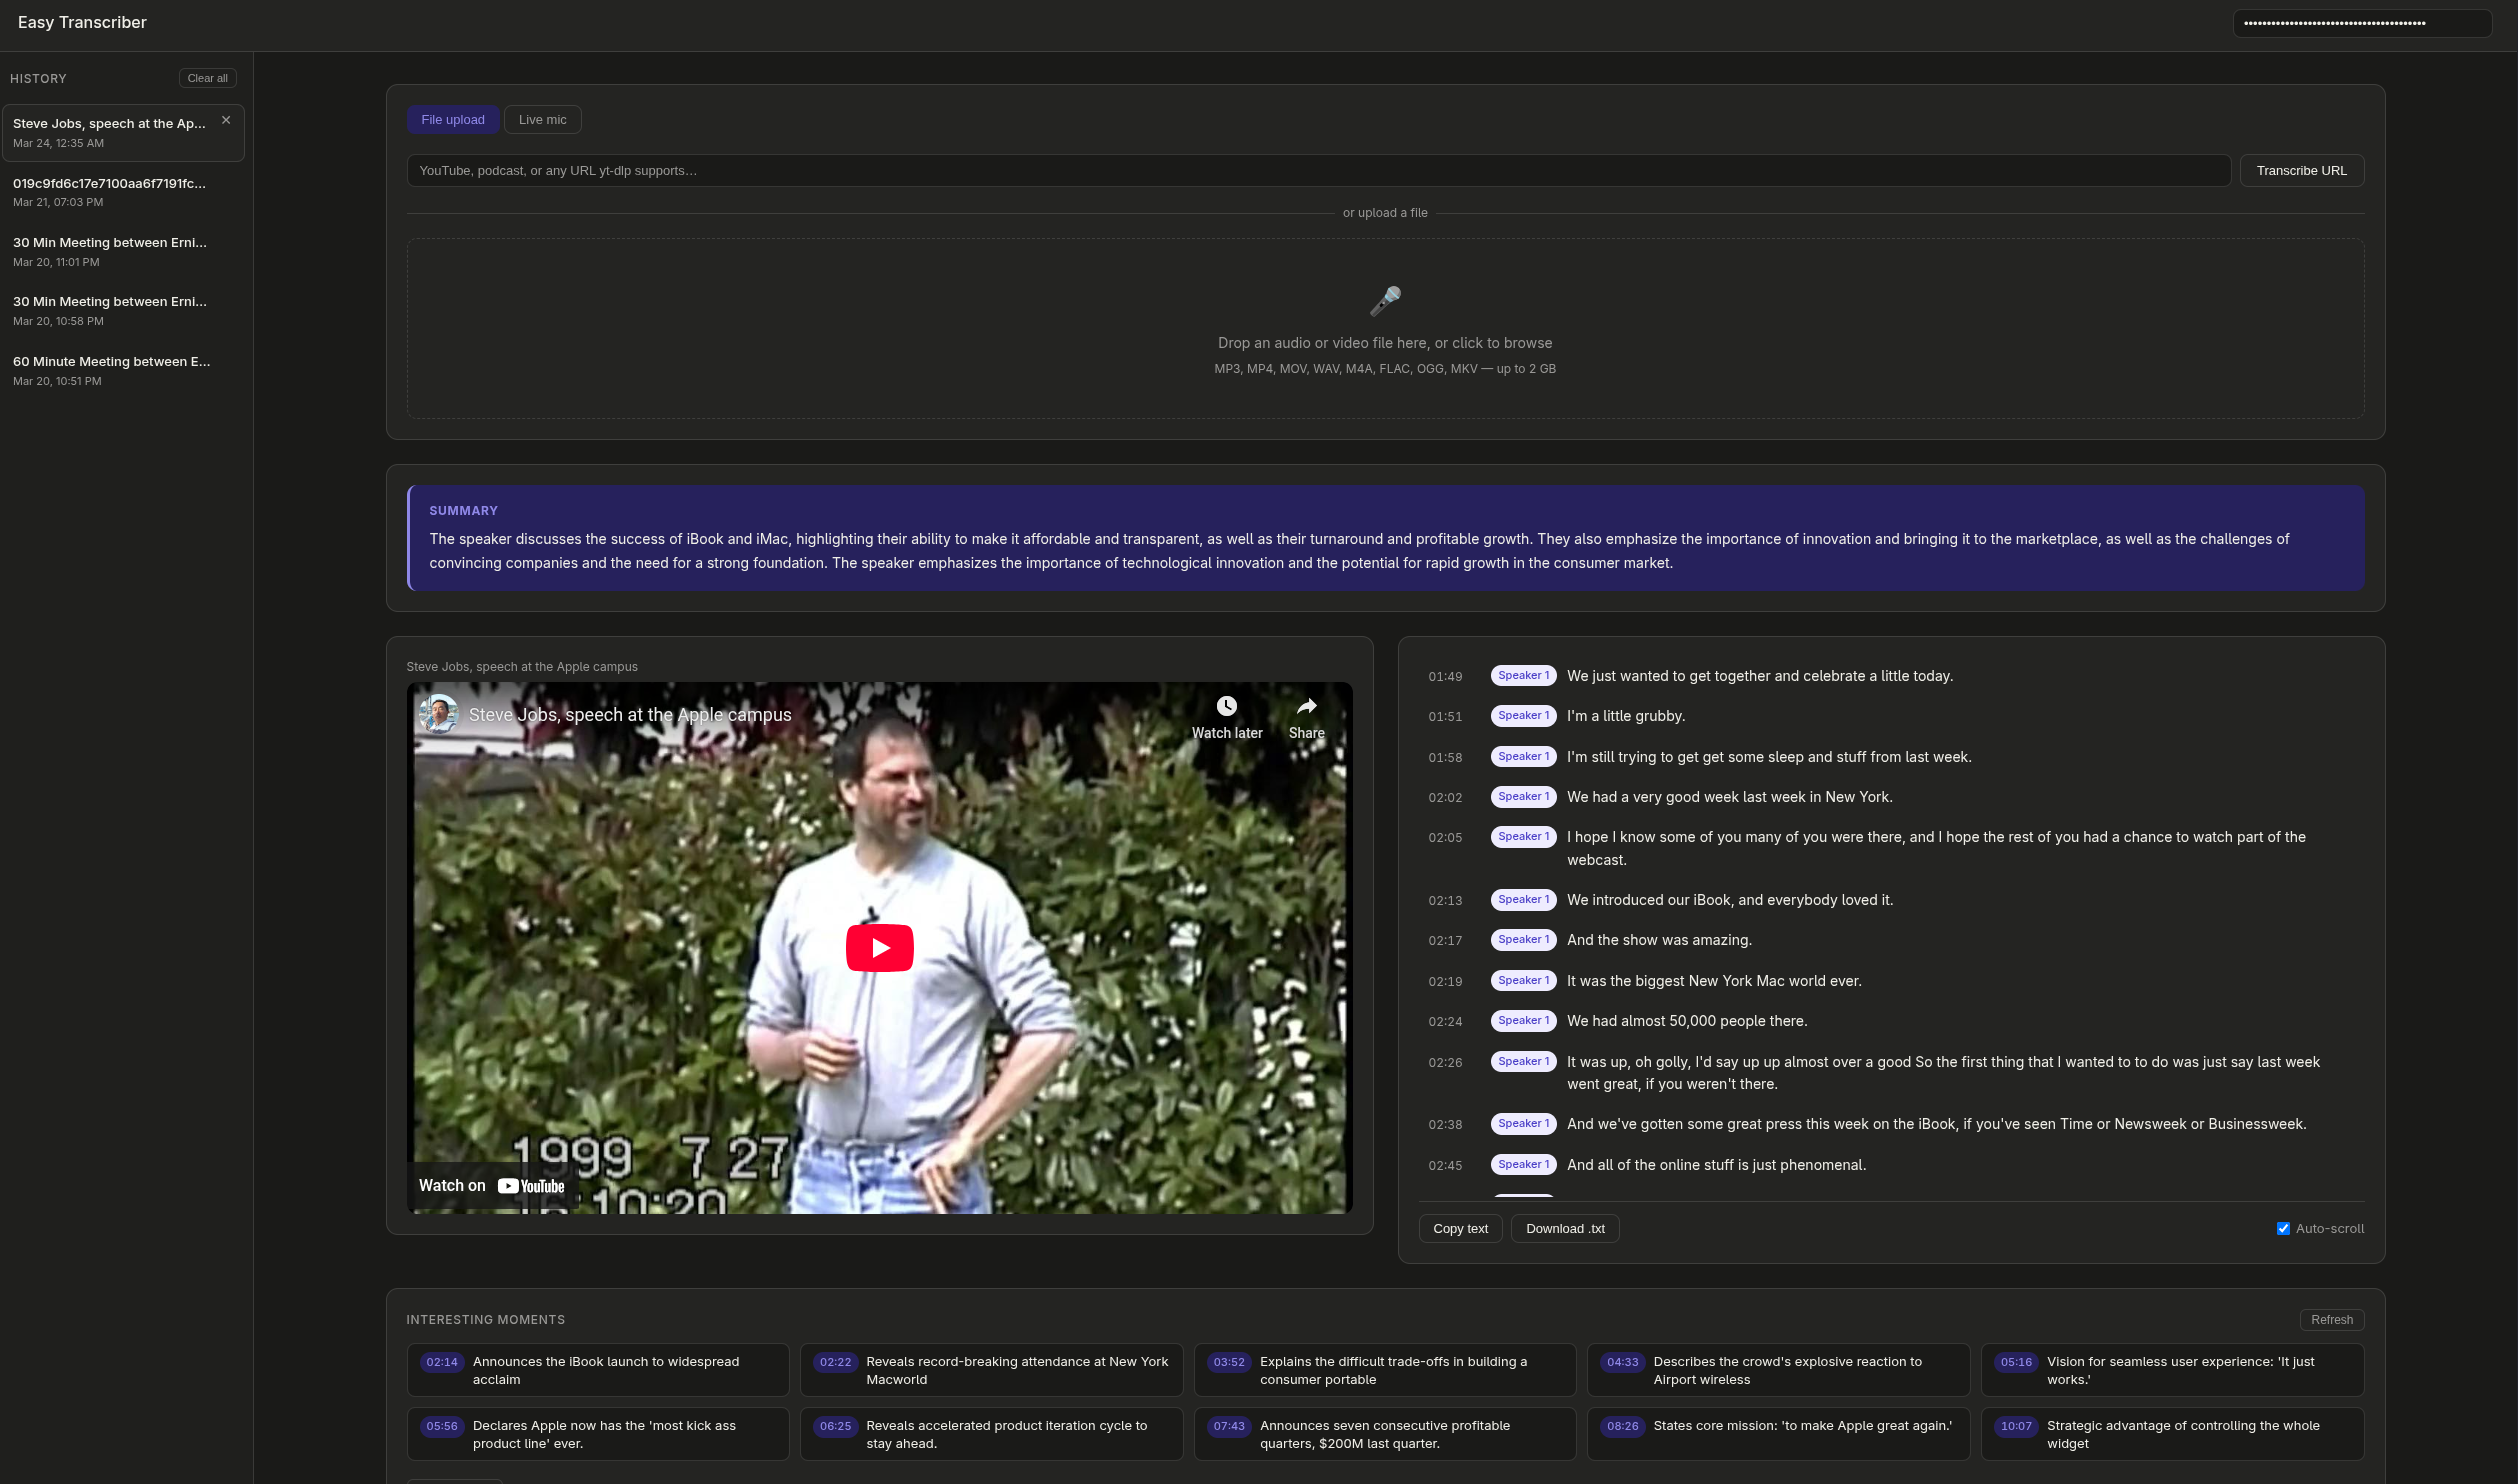
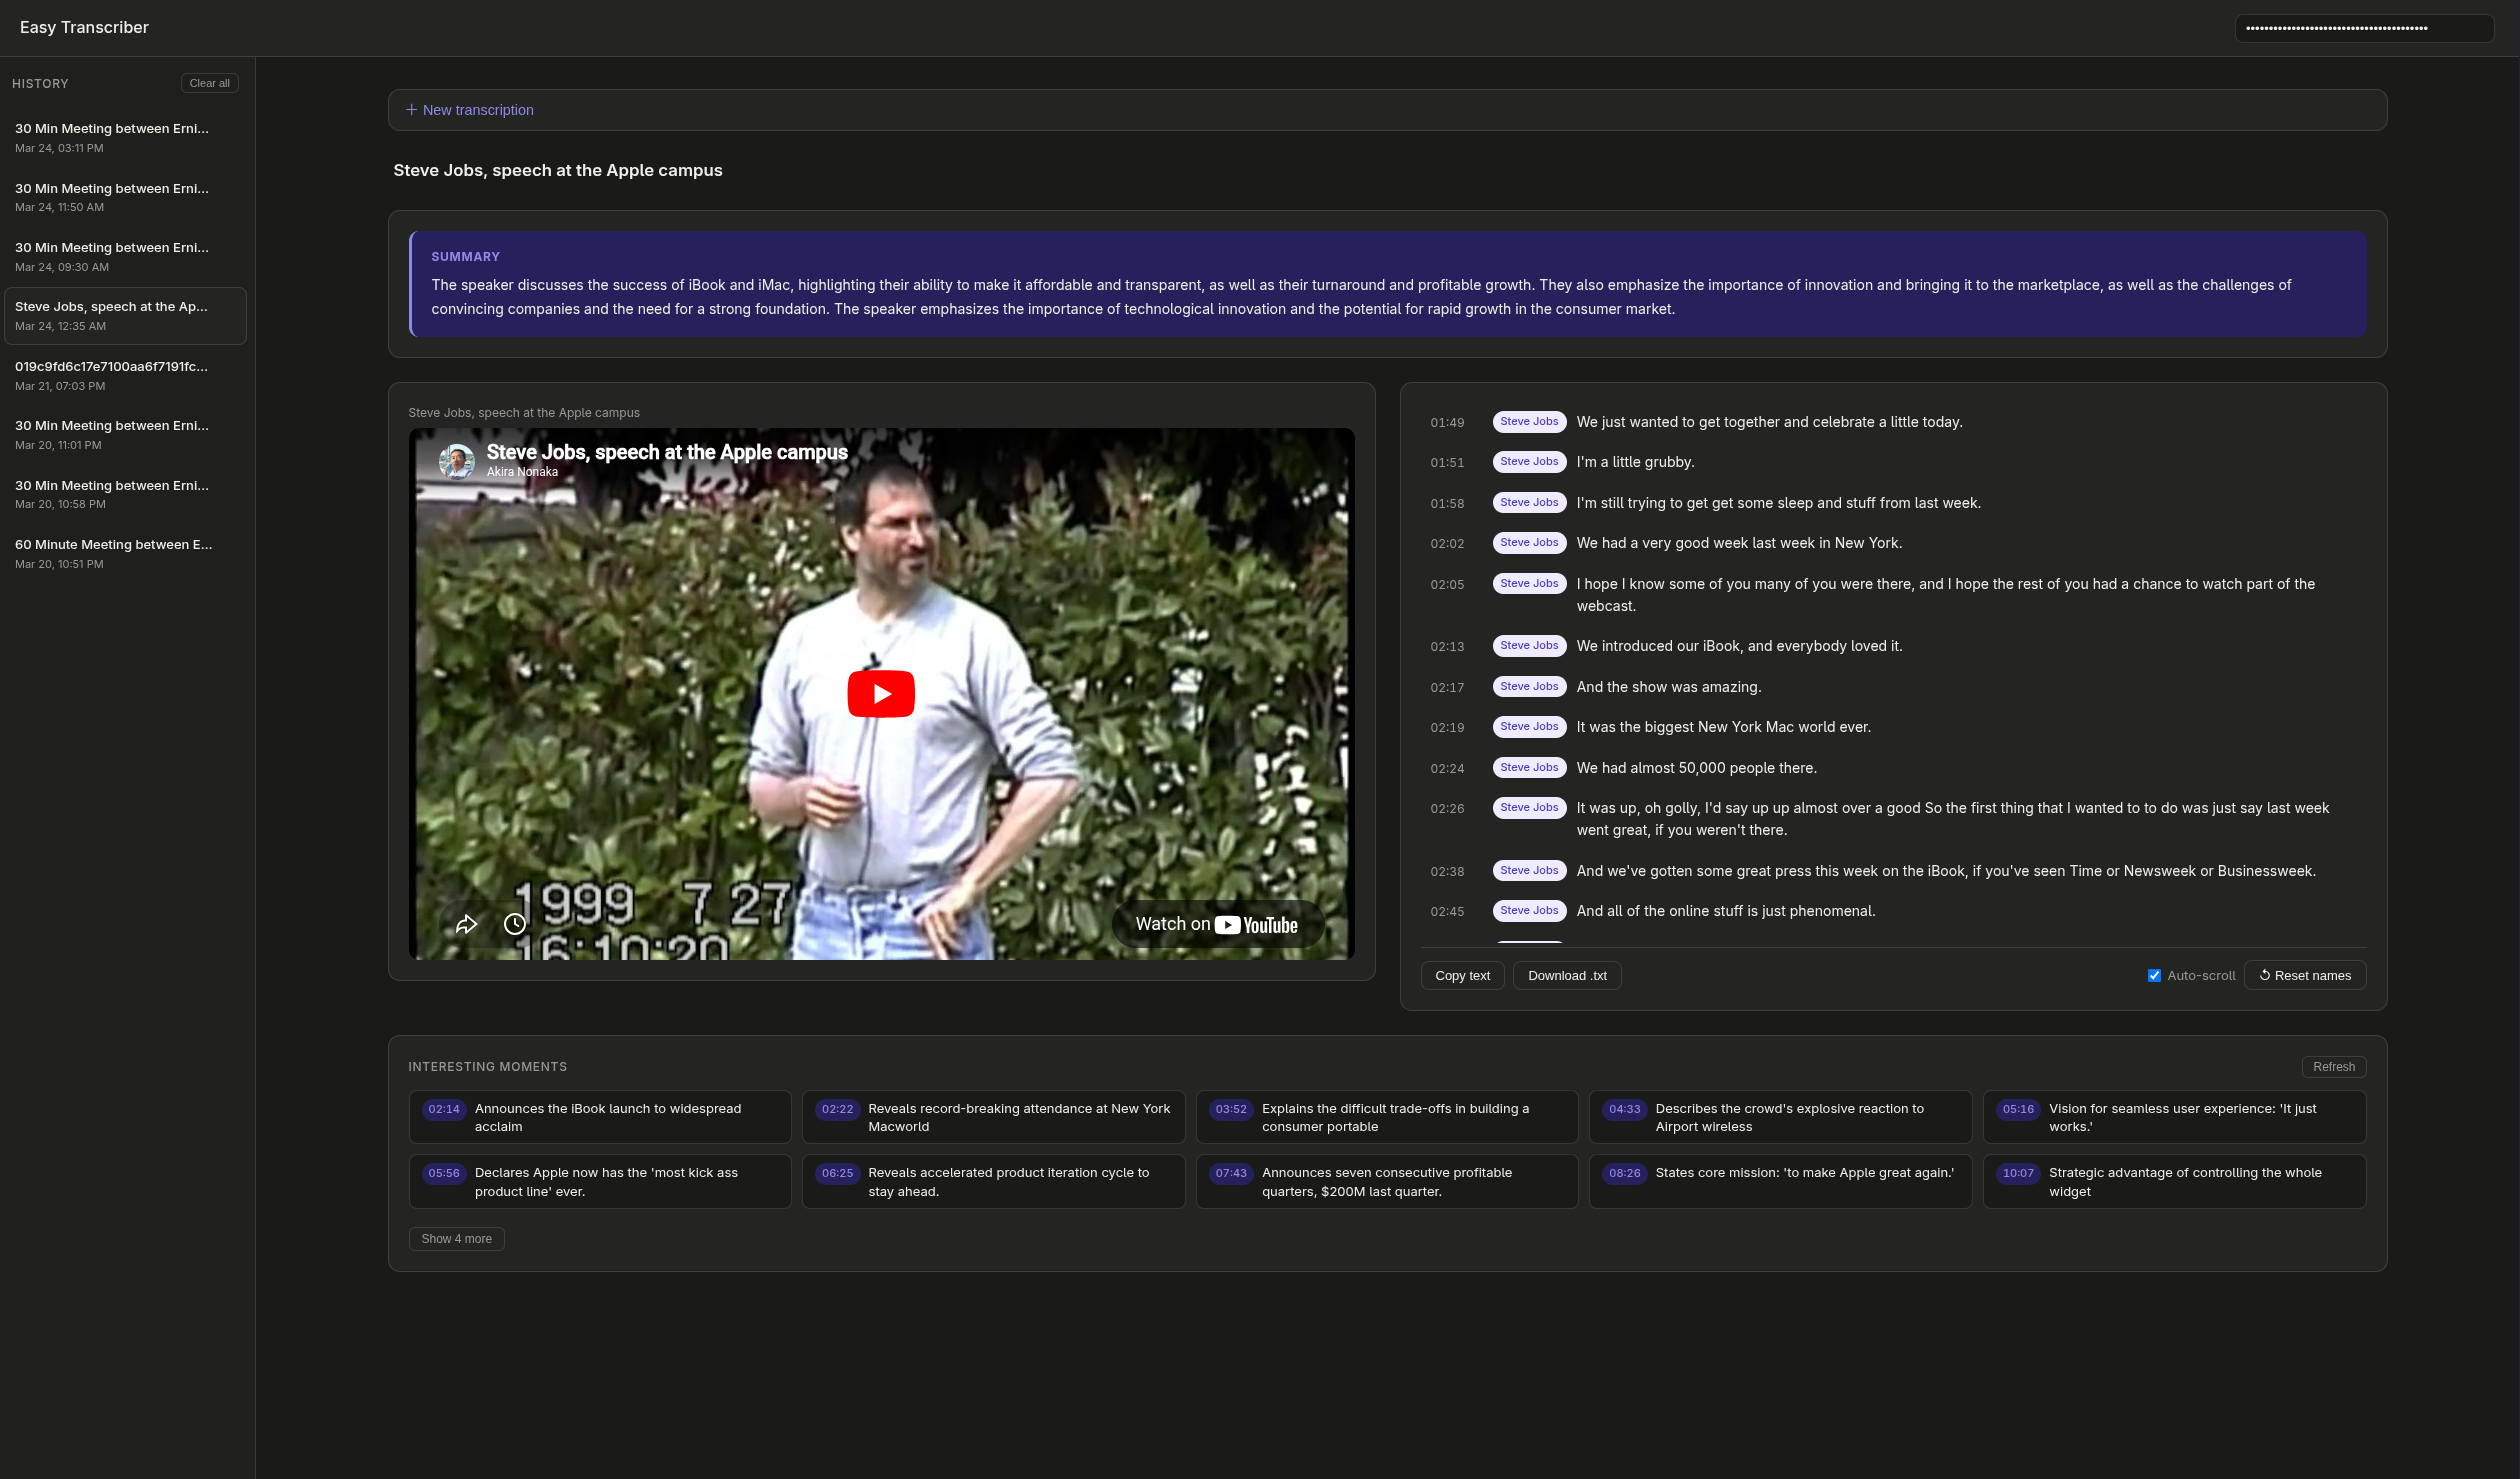
Make titles editable, minimize new transcription box, update screenshot

diff --git a/public/script.js b/public/script.js
@@ -25,6 +25,16 @@ function addToNameBank(name) {
   if (name && !bank.includes(name)) { bank.unshift(name); localStorage.setItem("speakerNameBank", JSON.stringify(bank.slice(0, 50))); }
 }
 
+// ── Upload card collapse ──────────────────────────────────────────────────────
+function collapseUploadCard() {
+  $("upload-card").classList.add("collapsed");
+  $("upload-card-bar").style.display = "";
+}
+function expandUploadCard() {
+  $("upload-card").classList.remove("collapsed");
+  $("upload-card-bar").style.display = "none";
+}
+
 // ── API key ───────────────────────────────────────────────────────────────────
 const savedKey = localStorage.getItem("dg_key");
 if (savedKey) $("api-key").value = savedKey;
@@ -39,6 +49,8 @@ document.querySelectorAll(".tab").forEach(btn => {
     $("panel-live").style.display   = btn.dataset.tab === "live"   ? "" : "none";
   });
 });
+
+$("btn-new-transcription").addEventListener("click", expandUploadCard);
 
 // ── Player helper ─────────────────────────────────────────────────────────────
 function setPlayerSrc(src, isAudio = false) {
@@ -144,6 +156,7 @@ function handleFile(file) {
   $("btn-reattach").style.display = "none";
   $("media-label").textContent = isVideo ? "Video" : "Audio";
   $("results").classList.remove("show");
+  expandUploadCard();
   $("timeline").innerHTML = "";
   $("summary-card").style.display = "none";
   $("progress-wrap").style.display = "";
@@ -188,6 +201,7 @@ async function handleUrl() {
   const ytId = getYouTubeId(url);
 
   $("results").classList.remove("show");
+  expandUploadCard();
   $("timeline").innerHTML = "";
   $("summary-card").style.display = "none";
   $("progress-wrap").style.display = "";
@@ -278,7 +292,15 @@ function renderResult(result, fromHistory = false, ytId = null) {
   }
 
   $("results").classList.add("show");
+  collapseUploadCard();
   $("progress-wrap").style.display = "none";
+
+  // Set editable title
+  const title = result._filename || result._title || result._historyFilename || "";
+  const titleEl = $("transcript-title");
+  titleEl.textContent = title;
+  titleEl.dataset.historyId = result._historyId || currentHistoryId || "";
+  wireTitleEdit();
 
   // Render topics if present, hide if not
   renderTopics(result._topics || null, ytId, result._historyId || currentHistoryId || null);
@@ -387,6 +409,32 @@ function renderTopics(topics, ytId = null, historyId = null) {
   card.style.display = "";
 }
 
+
+// ── Title editing ─────────────────────────────────────────────────────────────
+function wireTitleEdit() {
+  const el = $("transcript-title");
+  // Remove old listeners by cloning
+  const fresh = el.cloneNode(true);
+  el.parentNode.replaceChild(fresh, el);
+  fresh.contentEditable = "true";
+  fresh.spellcheck = false;
+  fresh.addEventListener("keydown", e => {
+    if (e.key === "Enter") { e.preventDefault(); fresh.blur(); }
+    if (e.key === "Escape") { fresh.blur(); }
+  });
+  fresh.addEventListener("blur", async () => {
+    const newName = fresh.textContent.trim();
+    const id = fresh.dataset.historyId;
+    if (!newName || !id) return;
+    await fetch(`/history/${id}/filename`, {
+      method: "PATCH",
+      headers: { "Content-Type": "application/json" },
+      body: JSON.stringify({ filename: newName }),
+    });
+    const sidebarEntry = document.querySelector(`.hist-name[data-id="${id}"]`);
+    if (sidebarEntry) sidebarEntry.textContent = newName;
+  });
+}
 
 // ── Speaker renaming ──────────────────────────────────────────────────────────
 function wireRenameBadges() {
@@ -527,7 +575,7 @@ async function loadHistorySidebar() {
     div.dataset.id = entry.id;
     div.innerHTML = `
       <div class="hist-meta">
-        <div class="hist-name" title="${entry.filename}">${entry.filename}</div>
+        <div class="hist-name" data-id="${entry.id}" title="${entry.filename}">${entry.filename}</div>
         <div class="hist-date">${fmtDate(entry.createdAt)}</div>
       </div>
       <button class="hist-del" title="Delete">✕</button>`;
@@ -562,11 +610,11 @@ async function loadHistorySidebar() {
         $("history-notice").style.display = "";
       }
 
-      renderResult({ ...entry.result, _ytId: entry.ytId || null, _topics: entry.topics || null, _historyId: entry.id, _speakerNames: entry.speakerNames || {} }, true, null);
+      renderResult({ ...entry.result, _ytId: entry.ytId || null, _topics: entry.topics || null, _historyId: entry.id, _speakerNames: entry.speakerNames || {}, _historyFilename: entry.filename }, true, null);
     });
     div.querySelector(".hist-del").addEventListener("click", async () => {
       await fetch(`/history/${entry.id}`, { method: "DELETE" });
-      if (currentHistoryId === entry.id) { $("results").classList.remove("show"); $("media-wrapper").style.display = "none"; }
+      if (currentHistoryId === entry.id) { $("results").classList.remove("show"); expandUploadCard(); $("media-wrapper").style.display = "none"; }
       loadHistorySidebar();
     });
     list.appendChild(div);
@@ -577,6 +625,7 @@ $("btn-clear-all").addEventListener("click", async () => {
   if (!confirm("Delete all transcript history?")) return;
   await fetch("/history", { method: "DELETE" });
   $("results").classList.remove("show");
+  expandUploadCard();
   $("media-wrapper").style.display = "none";
   currentHistoryId = null;
   loadHistorySidebar();

diff --git a/public/styles.css b/public/styles.css
@@ -237,9 +237,24 @@ progress { width: 100%; height: 4px; border-radius: 2px; display: block; }
 .dot { width: 8px; height: 8px; border-radius: 50%; background: #e24b4a; animation: pulse 1.2s infinite; }
 @keyframes pulse { 0%,100%{opacity:1} 50%{opacity:0.3} }
 
+/* ── Upload card collapse ────────────────────────────────────────────────────── */
+#upload-card.collapsed > *:not(#upload-card-bar) { display: none !important; }
+#upload-card.collapsed { padding: 0; }
+#upload-card-bar { padding: 0.5rem 1rem; }
+#btn-new-transcription { background: none; border: none; color: var(--accent); cursor: pointer; font-size: 0.9rem; padding: 0; }
+#btn-new-transcription:hover { text-decoration: underline; }
+
 /* ── Results ─────────────────────────────────────────────────────────────────── */
 #results { display: none; flex-direction: column; gap: 1.5rem; }
 #results.show { display: flex; }
+#transcript-title {
+  font-size: 1.05rem; font-weight: 600; color: var(--text);
+  cursor: text; border-radius: 4px; padding: 2px 6px; outline: none;
+  min-height: 1.4em; word-break: break-word;
+}
+#transcript-title:empty::before { content: attr(data-placeholder); color: var(--muted); }
+#transcript-title:hover { background: var(--accent-light); }
+#transcript-title:focus { background: var(--accent-light); box-shadow: 0 0 0 2px var(--accent); }
 #results-body { display: grid; grid-template-columns: 1fr 1fr; gap: 1.5rem; align-items: start; }
 @media (max-width: 900px) { #results-body { grid-template-columns: 1fr; } }
 

diff --git a/server.js b/server.js
@@ -56,6 +56,7 @@ const stmts = {
   setTopics: db.prepare("UPDATE history SET topics = ? WHERE id = ?"),
   getSpeakerNames: db.prepare("SELECT speaker_names FROM history WHERE id = ?"),
   setSpeakerNames: db.prepare("UPDATE history SET speaker_names = ? WHERE id = ?"),
+  updateFilename:  db.prepare("UPDATE history SET filename = ? WHERE id = ?"),
 };
 
 function dbGetAll()    { return stmts.getAll.all().map(rowToEntry); }
@@ -221,6 +222,12 @@ app.post("/retopics/:id", async (req, res) => {
 app.get("/history", (req, res) => {
   res.json(dbGetAll().map(e => ({ ...e, mediaUrl: mediaUrlForId(e.id) })));
 });
+app.patch("/history/:id/filename", express.json(), (req, res) => {
+  const { filename } = req.body;
+  if (!filename?.trim()) return res.status(400).json({ error: "empty" });
+  stmts.updateFilename.run(filename.trim(), req.params.id);
+  res.json({ ok: true });
+});
 app.patch("/history/:id/speakers", (req, res) => {
   dbUpdateSpeakerNames(req.params.id, req.body.speakerNames);
   res.json({ ok: true });
@@ -374,7 +381,7 @@ app.post("/transcribe", upload.single("audio"), async (req, res) => {
     const topics = await extractTopics(result.results?.utterances || []);
     const entry = { id, filename: req.file.originalname, createdAt: new Date().toISOString(), ytId: null, sourceUrl: null, result, topics };
     dbInsert(entry);
-    res.json({ ...result, _historyId: id, mediaUrl: `/media/${id}.mp3`, _topics: topics });
+    res.json({ ...result, _historyId: id, _filename: req.file.originalname, mediaUrl: `/media/${id}.mp3`, _topics: topics });
   } catch (err) {
     if (fs.existsSync(savedAudioPath)) fs.unlinkSync(savedAudioPath);
     res.status(500).json({ error: err.message });

diff --git a/public/index.html b/public/index.html
@@ -27,7 +27,10 @@
 
   <div id="main">
     <div id="content">
-      <div class="card">
+      <div class="card" id="upload-card">
+        <div id="upload-card-bar" style="display:none;">
+          <button id="btn-new-transcription">＋ New transcription</button>
+        </div>
         <div class="tabs">
           <button class="tab active" data-tab="upload">File upload</button>
           <button class="tab" data-tab="live">Live mic</button>
@@ -75,6 +78,7 @@
       </div>
 
       <div id="results">
+        <div id="transcript-title"></div>
         <div class="card" id="summary-card" style="display:none;">
           <div class="summary-box">
             <strong>Summary</strong>
